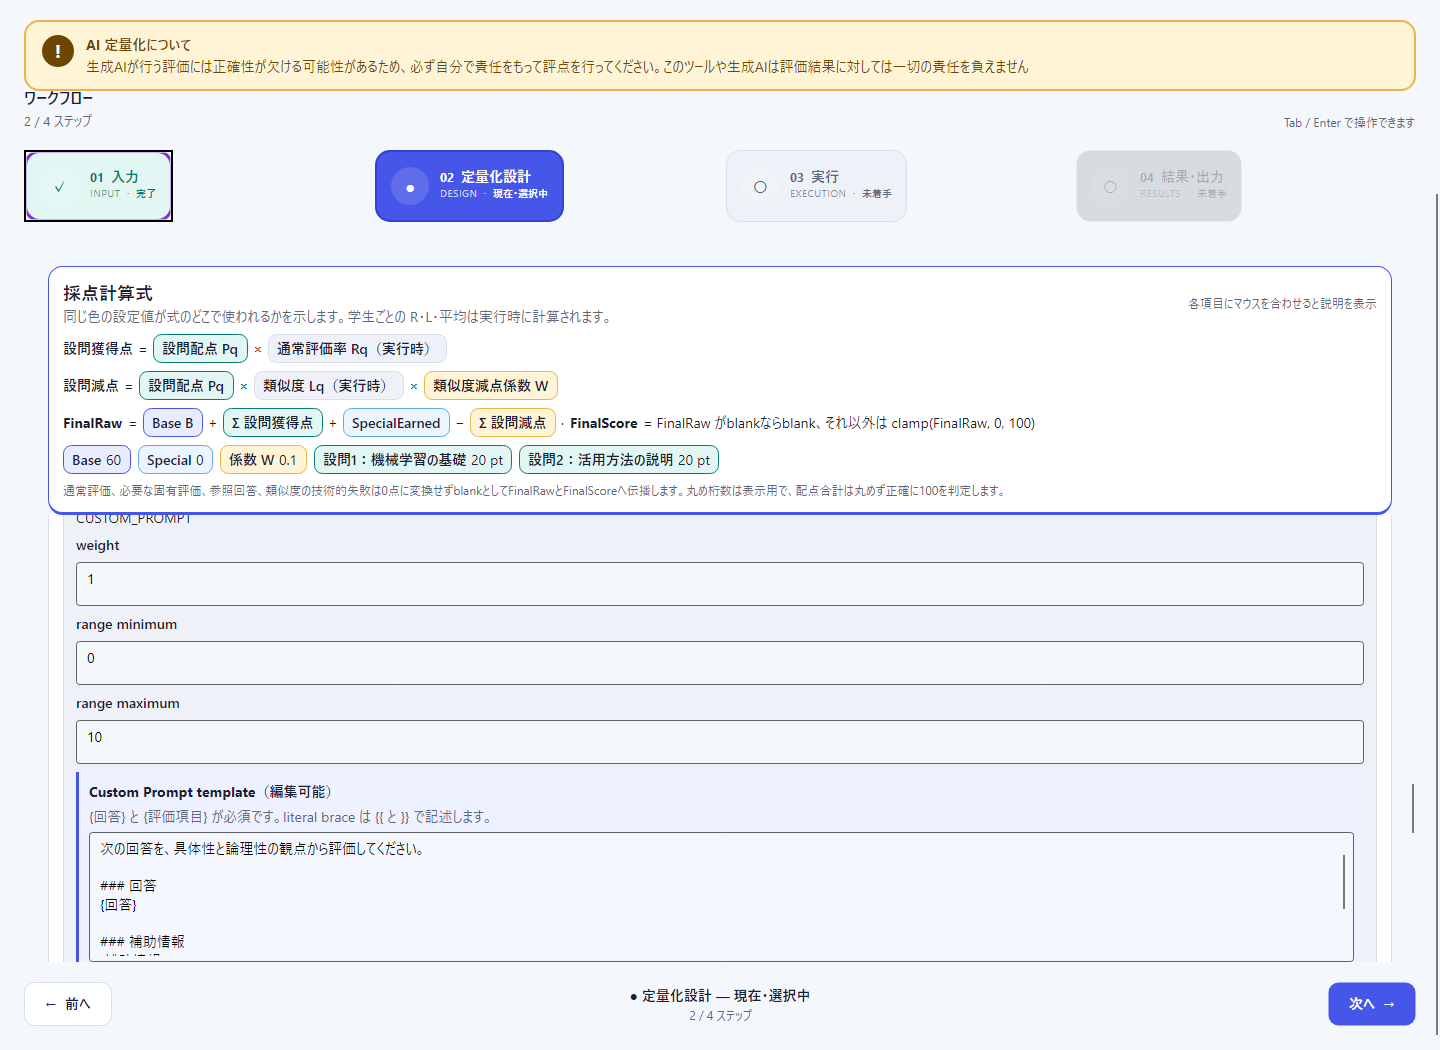
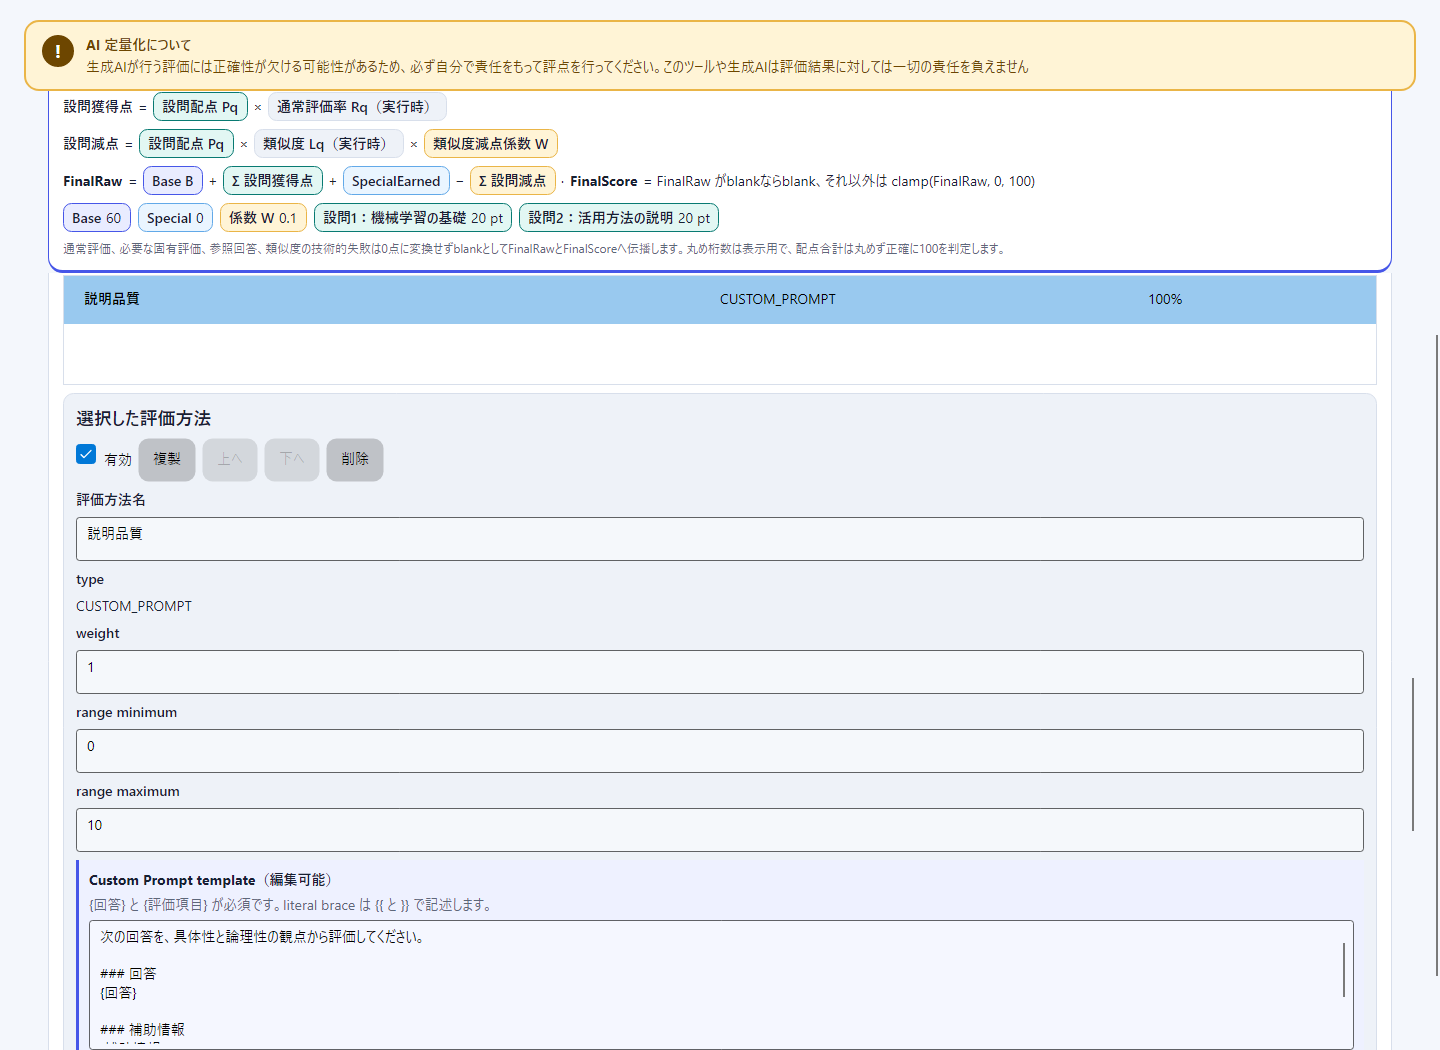
fix(ui): complete adaptive design viewport behavior

diff --git a/tests/StudyReportEvaluator.App.Tests/UI/MainWindowTests.cs b/tests/StudyReportEvaluator.App.Tests/UI/MainWindowTests.cs
@@ -217,6 +217,42 @@ public sealed class MainWindowTests
     }
 
     [AvaloniaFact]
+    public void Design_view_height_tracks_the_window_client_height()
+    {
+        MainWindowViewModel viewModel = new(
+            new WorkflowNavigator(),
+            new InputViewModel(),
+            new QuantificationDesignViewModel());
+        MainWindow window = new(viewModel)
+        {
+            Width = 1180,
+            Height = 720,
+        };
+
+        try
+        {
+            window.Show();
+            viewModel.NextCommand.Execute(null);
+            Render();
+
+            QuantificationDesignView designView = Assert.Single(
+                window.GetVisualDescendants().OfType<QuantificationDesignView>());
+            double compactHeight = window.ClientSize.Height;
+            Assert.Equal(compactHeight, designView.MaxHeight);
+
+            window.Height = 1000;
+            Render();
+
+            Assert.True(window.ClientSize.Height > compactHeight);
+            Assert.Equal(window.ClientSize.Height, designView.MaxHeight);
+        }
+        finally
+        {
+            window.Close();
+        }
+    }
+
+    [AvaloniaFact]
     public async Task Shell_round_trips_loaded_input_mapping_and_quantification_design_without_losing_edits()
     {
         using X02TemporaryWorkbook workbook = X02SyntheticWorkbookFactory.CreateSampleLike();
@@ -395,6 +431,13 @@ public sealed class MainWindowTests
     private static T Required<T>(Control root, string name)
         where T : Control =>
         Assert.IsType<T>(root.FindControl<T>(name));
+
+    private static void Render()
+    {
+        Dispatcher.UIThread.RunJobs();
+        AvaloniaHeadlessPlatform.ForceRenderTimerTick();
+        Dispatcher.UIThread.RunJobs();
+    }
 
     private static void AssertNoDevelopmentTaskText(Control root) =>
         Assert.DoesNotContain(

diff --git a/dev/docs/implementation-status.md b/dev/docs/implementation-status.md
@@ -4,14 +4,14 @@
 |---|---|
 | Current requirement | `docs/requirements-definition.md` v4.4 |
 | Scope ADR | ADR-0012（機能）/ ADR-0015（Windows ZIP public / development MSIX）/ ADR-0013（Windows public evidence） |
-| Product version | `0.8.2` candidate — `Directory.Build.props`の明示`VersionPrefix` |
+| Product version | `0.8.3` candidate — `Directory.Build.props`の明示`VersionPrefix` |
 | Version management | [`version-management.md`](version-management.md) / [`dev/version.ps1`](../version.ps1) / ADR-0014 |
 | Source baseline | `main`、release commit `d0b03b9201d397b6c3333dafbb816b13b4dc003c`、annotated tag `v0.8.1` |
 | Public release status | `PUBLISHED — v0.8.1、2026-09-04T08:52:49Z公開、ZIPとsidecarの2 asset` |
 | Current v4.4 Release build | PASS、warning 0 / error 0（2026-09-05実行） |
 | Previous v4.3 full required gate | 696/696 PASS（Core 190/190、App 506/506、failed 0、skipped 0、2026-09-04 V2-01実行） |
 | Current v4.4 focused input validation | 46/46 PASS（InputViewTests 21、WorkbookMetadataReaderTests 11、ColumnMappingSuggesterTests 14。failed 0、skipped 0、2026-09-05実行） |
-| Current v4.4 full required gate | locked restore、Release build、Core 190/190、App 527/527、合計717/717 PASS。failed 0、skipped 0（2026-09-05実行） |
+| Current v4.4 full required gate | locked restore、Release build、Core 190/190、App 528/528、合計718/718 PASS。Appはnamespace／E2E class別に分割実行し、failed 0、skipped 0（2026-09-05実行） |
 | Baseline focused validation | locked restore、version self-test 15 assertions、DocumentationContractTests 14/14、WindowsInstallerPackageTests 6/6、MacOsPublishPackageTests 2/2、`git diff --check`が全てPASS（2026-09-04実行） |
 | Previous focused UI baseline | `MainWindowTests` 8/8 PASS（2026-09-02実行。current candidate full gateへ未算入） |
 | Previous bundled CLI baseline | `CopilotClientFactoryTests` 14/14 PASS（2026-09-02実行。current candidate full gateへ未算入） |
@@ -19,6 +19,7 @@
 | Current v4.4 documentation contract | 14/14 PASS（2026-09-05実行。requirements、利用者文書、root `SystemTest-prompt.md`、25 scenario、TR-01〜TR-29、input synchronization契約を含む） |
 | Previous screenshot baseline | 7画像再生成、1440×1050、test 1/1 PASS、敵対review finding 0（2026-09-02実行。current candidate full gateへ未算入） |
 | Current v4.4 screenshot validation | 7画像再生成1/1 PASS、全画像1440×1050、全7画像目視確認（2026-09-05実行） |
+| Current Windows ZIP package validation | 3/3 PASS。publish、package、sidecar、safe layout、clean launch、再現性を検証し、App/CoreのAssembly/File/Product versionが0.8.3で一致（2026-09-05実行） |
 | Previous Windows ZIP integration baseline | publish/package/展開/resolver/clean launch/repackage、全class 3/3 PASS（2026-09-02実行。current candidate gateへ流用しない） |
 | B1-16 adversarial review | RealData evidence contractの曖昧性を計画へ反映。source identity assertionはPASS、opt-in E2E／Live AIは非実行。未解決の再現可能なblocker/high finding 0 |
 | Previous canonical sample baseline | canonical `sample/SampleReport.xlsx` exact path・identity・structure・input不変 1/1 PASS、synthetic fixture isolation 1/1 PASS（2026-09-03実行。current candidate full gateへ未算入） |
@@ -28,8 +29,8 @@
 | Previous functional baseline | Release 670/670 PASS、Core 190/190・App 480/480、failed/error/not-executed 0（2026-09-03、v1.0.1 recovery tree。現在の0.8.0 delivery証跡へ流用しない） |
 | Previous optional live Copilot evidence | `PASS` — fixed synthetic payload、required substitute false（2026-09-02実行。current required gateへ算入しない） |
 | Previous optional external recalculation evidence | `MIXED_ADVISORY` — syntheticはMicrosoft Excel 16.0でopen/recalculate/save・process cleanupまで`PASS`。canonical output copyは20,672 formula error 0だが、Excel保存時に生成されたoptional `/xl/calcChain.xml`だけに`Sem_MissingIndexedElement`が発生して`FAILED_ADVISORY`（2026-09-03実行。current required gateへ算入しない） |
-| Version tool validation | `0.8.2`でshow/verify/set/bump/dry-run/invalid rejection、複数Git pathでのtag/clean検証、15 assertions PASS（2026-09-05実行） |
-| Development MSIX mechanism | `PASS_MECHANISM` — package/unpack/hash/policy/cleanup、0.8.1.0、install未実行・非required（2026-09-04実行） |
+| Version tool validation | `0.8.3`でshow/verify/set/bump/dry-run/invalid rejection、複数Git pathでのtag/clean検証、15 assertions PASS（2026-09-05実行） |
+| Development MSIX mechanism | `PASS_MECHANISM` — package/unpack/hash/policy/cleanup、0.8.3.0、install未実行・非required（2026-09-05実行） |
 | macOS static source contract | 2/2 PASS — unsigned bundle最小contractとproduction trust順序のsource検証。production artifact／署名／公証の実測ではない（2026-09-04 B1-16実行） |
 | Audit date | 2026-09-05 |
 

diff --git a/dev/docs/detailed-design.md b/dev/docs/detailed-design.md
@@ -641,6 +641,15 @@ finalizationはrunの一部として自動実行する。Resultsでは既存fina
 - `StartupErrorWindow`は最小420×220を維持し、contentを`StartupErrorScrollViewer`で包む。
 - horizontal scrollを`Disabled`、vertical scrollを`Auto`とし、長いguidanceと終了buttonへ縦scrollで到達できるようにする。
 
+### 10.7 Layout decision sources and limits
+
+- Avaloniaは、再利用可能なcomponentをwindow全体ではなくancestor controlの実際のsizeへ適応させる手段として`Container.Name`、`Container.Sizing`、`ContainerQuery`を示している。[Avalonia — Responsive layouts](https://github.com/AvaloniaUI/avalonia-docs/blob/main/docs/layout/responsive-layouts.md)
+- Microsoftは、responsive breakpointを物理screenではなくapp windowの利用可能領域とeffective pixelで判断し、小さいwindowでは縦積み、大きいwindowでは複数列へreflowする手法を示している。[Microsoft Learn — Screen sizes and breakpoints](https://learn.microsoft.com/windows/apps/design/layout/screen-sizes-and-breakpoints-for-responsive-design)、[Responsive design techniques](https://learn.microsoft.com/windows/apps/design/layout/responsive-design)
+- W3CのReflowは、意味または機能上二次元配置が必要な部分を除き、情報・機能を失わず二方向scrollを避けることを求める。Understanding文書は、二次元表示が必要なtable等を専用scroll containerへ限定し、page全体はreflowさせる例を示す。[WCAG 2.2 SC 1.4.10 Reflow](https://www.w3.org/TR/WCAG22/#reflow)、[Understanding Reflow](https://www.w3.org/WAI/WCAG22/Understanding/reflow.html)
+- W3CのResize Textは、captionとtext imageを除くtextを200%まで拡大してもcontentまたはfunctionalityを失わないことを求める。[WCAG 2.2 SC 1.4.4 Resize Text](https://www.w3.org/TR/WCAG22/#resize-text)
+- `880` DIPはMicrosoft、W3C、Avaloniaが規定する汎用breakpointではなく、このcomponent固有の実装値である。採用根拠は`InputViewTests`の879／880／881境界、760 DIP standalone、1024 DIP shell、1180 DIP wide、および200% render scalingでの直接検証に限定する。
+- 上記WCAG資料はdesktop UIの設計heuristicとして使用する。本製品全体のWCAG適合宣言または第三者認証を意味しない。
+
 ## 11. Command-line launch
 
 ### 11.1 Parser

diff --git a/dev/docs/traceability.md b/dev/docs/traceability.md
@@ -8,8 +8,8 @@
 | Plan | `work/20260904-publication-remediation-plan.md` |
 | Previous validation | delivery変更前 Release build warning/error 0、full 670/670 PASS（Core 190 / App 480）。現在の0.8.0 delivery evidenceへ流用しない |
 | Current focused validation | 2026-09-05: InputViewTests 21、WorkbookMetadataReaderTests 11、ColumnMappingSuggesterTests 14、計46/46 PASS。DocumentationContractTests 14/14 PASS |
-| Current full required validation | 2026-09-05: locked restore、Release build、Core 190/190、App 527/527、合計717/717 PASS。failed 0、skipped 0 |
-| Current status | v4.4 implementation validation PASS。現行candidateは`0.8.2`、公開済みreleaseは`v0.8.1` |
+| Current full required validation | 2026-09-05: locked restore、Release build、Core 190/190、App 528/528、合計718/718 PASS。Appはnamespace／E2E class別に分割実行し、failed 0、skipped 0 |
+| Current status | v4.4 implementation validation PASS。現行candidateは`0.8.3`、公開済みreleaseは`v0.8.1` |
 
 この表の`PLANNED`は未実装をPASSと称しない。task完了後にproduction symbol、direct test、gate identityへ更新する。旧v3 traceabilityはGit履歴とADR-0011に保持する。
 

diff --git a/dev/docs/readme-claim-ledger.md b/dev/docs/readme-claim-ledger.md
@@ -8,7 +8,7 @@
 | 更新日 | 2026-09-05 |
 | SystemTest正本 | `SystemTest-prompt.md` v4.4、ST-UC-01〜25、TR-01〜29 |
 | Public release observation | 2026-09-04、`v0.8.1`とZIP／sidecarの2 assetを公開 |
-| Current evidence | v4.4 input regression 46/46、DocumentationContractTests 14/14、full required regression 717/717 PASS（Core 190、App 527） |
+| Current evidence | v4.4 input regression 46/46、DocumentationContractTests 14/14、full required regression 718/718 PASS（Core 190、App 528） |
 | 状態語彙 | `VERIFIED` / `BLOCKED` / `EXCLUDED` |
 
 この台帳は公開文書の事実確認用であり、READMEまたは配布ZIPから利用者へ案内しない。`VERIFIED`だけをその行に限定した現在のclaimとして断定できる。たとえばC-033の`VERIFIED`はdevelopment mechanismの成功と非公開境界だけを確認し、production readinessを意味しない。`BLOCKED`は解消までREADME本文へ断定形で書かない。`EXCLUDED`は非対応・非保証としてのみ記載できる。

diff --git a/dev/docs/version-management.md b/dev/docs/version-management.md
@@ -74,7 +74,7 @@
 
 | Version | 現在値 | 更新条件 | Source |
 |---|---:|---|---|
-| 製品版 | `0.8.2` candidate | 本手順の公開契約差分 | [`Directory.Build.props`](../../Directory.Build.props) |
+| 製品版 | `0.8.3` candidate | 本手順の公開契約差分 | [`Directory.Build.props`](../../Directory.Build.props) |
 | 要求文書版 | `4.4` | 要求baseline変更 | [`requirements-definition.md`](../../docs/requirements-definition.md) |
 | QuantificationDefinition schema | `4.0` | canonical definition format変更 | [`CanonicalDefinitionSerializer.cs`](../../src/StudyReportEvaluator.Core/Serialization/CanonicalDefinitionSerializer.cs) |
 | checkpoint schema | `1` | checkpoint payload format変更 | [`CheckpointEnvelope.cs`](../../src/StudyReportEvaluator.App/Workbooks/Checkpoint/CheckpointEnvelope.cs) |

diff --git a/dev/docs/README.md b/dev/docs/README.md
@@ -73,7 +73,7 @@ historical fileへ追加した先頭bannerはpost-gate navigation metadataです
 
 | Item | Pinned value | Source |
 |---|---:|---|
-| Product version | `0.8.2` candidate | [`Directory.Build.props`](../../Directory.Build.props)、[版管理手順](version-management.md) |
+| Product version | `0.8.3` candidate | [`Directory.Build.props`](../../Directory.Build.props)、[版管理手順](version-management.md) |
 | .NET SDK | 10.0.400、latestPatch | [`global.json`](../../global.json) |
 | Target framework | `net10.0` | [`Directory.Build.props`](../../Directory.Build.props) |
 | Avalonia | 12.1.1 | [`Directory.Packages.props`](../../Directory.Packages.props) |
